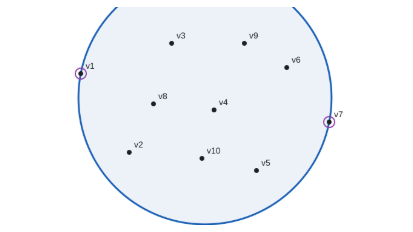
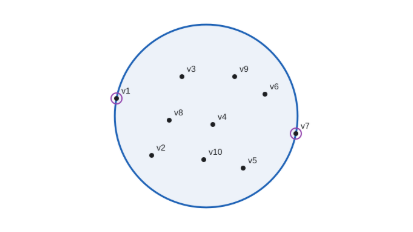
fix: fit the smallest enclosing disk presets into the canvas
- Random example, Two far points and Collinear rescaled about their disc
  centre and moved to (387, 180); Acute triangle moved 40 down. Orders,
  boundary counts, tests and updates unchanged; radii re-pinned
  (150.8, 153.0, 159.0)
- presets.test: every final disc has r <= 165 and lies in the 775x360
  canvas with a margin of 10
- spec section 3.4 updated with the new coordinates
- thumbnail regenerated (step 32 is still the last step)
- docs.spec: link href checks carry BASE_PATH, so they hold under a sub-path

Claude-Session: https://claude.ai/code/session_01GDn6v79cMSt4qkDVCWkMfK

diff --git a/src/geometry/algorithms/minidisc/presets.ts b/src/geometry/algorithms/minidisc/presets.ts
@@ -23,19 +23,19 @@ export const MINIDISC_PRESETS: {
 }[] = [
   {
     name: 'Random example',
-    points: pts([180, 250], [260, 120], [330, 300], [400, 190], [470, 90], [520, 260], [590, 170], [300, 200], [450, 300], [380, 110]),
+    points: pts([239, 209], [297, 115], [347, 245], [398, 166], [448, 94], [484, 216], [535, 151], [326, 173], [434, 245], [383, 108]),
     order: defaultOrder(10, 10),
-    expected: { boundary: 2, radius: 208.9, tests: 17, updates: 4 },
+    expected: { boundary: 2, radius: 150.8, tests: 17, updates: 4 },
   },
   {
     name: 'Two far points',
-    points: pts([150, 180], [620, 180], [300, 150], [450, 220], [380, 170], [500, 140]),
+    points: pts([234, 180], [540, 180], [332, 161], [429, 206], [384, 174], [462, 154]),
     order: [2, 3, 4, 5, 0, 1],
-    expected: { boundary: 2, radius: 235, tests: 21, updates: 6 },
+    expected: { boundary: 2, radius: 153, tests: 21, updates: 6 },
   },
   {
     name: 'Acute triangle',
-    points: pts([260, 290], [510, 280], [390, 80], [380, 200], [330, 230], [440, 220]),
+    points: pts([260, 250], [510, 240], [390, 40], [380, 160], [330, 190], [440, 180]),
     order: defaultOrder(6, 6),
     expected: { boundary: 3, radius: 140.8, tests: 18, updates: 11 },
   },
@@ -53,8 +53,8 @@ export const MINIDISC_PRESETS: {
   },
   {
     name: 'Collinear',
-    points: pts([150, 180], [250, 180], [400, 180], [520, 180], [640, 180]),
+    points: pts([228, 180], [293, 180], [390, 180], [468, 180], [546, 180]),
     order: [2, 1, 3, 0, 4],
-    expected: { boundary: 2, radius: 245, tests: 16, updates: 7 },
+    expected: { boundary: 2, radius: 159, tests: 16, updates: 7 },
   },
 ]

diff --git a/tests/e2e/docs.spec.ts b/tests/e2e/docs.spec.ts
@@ -1,4 +1,5 @@
 import { expect, test, type Page } from '@playwright/test';
+import { BASE_PATH } from './base';
 
 const items = [
   'Polygon', 'TextPoint', 'Points', 'clearScreen', 'clearLog', 'draw', 'createPolygon', 'createRandomPolygon',
@@ -45,7 +46,7 @@ test('sidebar navigation switches pages', async ({ page }) => {
 
 test('converted links point to documentation pages', async ({ page }) => {
   await page.goto('documentation/Points');
-  await expect(page.locator('article a[href="/documentation/createRandom"]').first()).toBeVisible();
+  await expect(page.locator(`article a[href="${BASE_PATH}/documentation/createRandom"]`).first()).toBeVisible();
 });
 
 test('unknown item is not found, case-sensitively', async ({ page }) => {
@@ -69,7 +70,7 @@ test('Try it link exists exactly where an example exists', async ({ page }) => {
   await page.goto('documentation/sort');
   await expect(page.getByRole('link', { name: 'Try it' })).toHaveCount(0);
   await page.goto('documentation/animate');
-  await expect(page.getByRole('link', { name: 'Try it' })).toHaveAttribute('href', '/playground?example=animate');
+  await expect(page.getByRole('link', { name: 'Try it' })).toHaveAttribute('href', `${BASE_PATH}/playground?example=animate`);
 });
 
 test('example link does not overwrite saved playground code', async ({ page }) => {

diff --git a/tests/e2e/smallestEnclosingDisk.spec.ts b/tests/e2e/smallestEnclosingDisk.spec.ts
@@ -85,8 +85,9 @@ test('dragging a point restarts the player', async ({ page }) => {
   await expect(page.getByText(/^Step 2 \/ /)).toBeVisible()
   await page.waitForFunction(() => window.__webcgalDebug?.scene.paper.project.activeLayer.children.length)
   const n = preset.points.length
+  const start = preset.points[0]
   const v1 = await pointPosition(page, 0, n)
-  expect(v1).toMatchObject({ x: 180, y: 250, width: 8 })
+  expect(v1).toMatchObject({ x: start.x, y: start.y, width: 8 })
   const from = await toPage(page, v1)
   await page.mouse.move(from.x, from.y)
   await page.mouse.down()
@@ -94,7 +95,7 @@ test('dragging a point restarts the player', async ({ page }) => {
   await page.mouse.up()
   await expect(page.getByText(/^Step 1 \/ /)).toBeVisible()
   await expect(page.getByRole('alert')).toHaveCount(0)
-  expect((await pointPosition(page, 0, n)).x).not.toBe(180)
+  expect((await pointPosition(page, 0, n)).x).not.toBe(start.x)
   // the order stays
   await expect(description(page)).toHaveText(`Order: ${preset.order.map(label).join(', ')}`)
 })

diff --git a/src/geometry/algorithms/minidisc/presets.test.ts b/src/geometry/algorithms/minidisc/presets.test.ts
@@ -29,6 +29,17 @@ describe('MINIDISC_PRESETS', () => {
     })
   }
 
+  it('every final disc fits the 775×360 canvas with a margin of 10', () => {
+    for (const p of MINIDISC_PRESETS) {
+      const { center: c, radius: r } = minidisc(p.points, p.order).disk!
+      expect(r, p.name).toBeLessThanOrEqual(165)
+      expect(c.x - r, p.name).toBeGreaterThanOrEqual(10)
+      expect(c.x + r, p.name).toBeLessThanOrEqual(775 - 10)
+      expect(c.y - r, p.name).toBeGreaterThanOrEqual(10)
+      expect(c.y + r, p.name).toBeLessThanOrEqual(360 - 10)
+    }
+  })
+
   it('preset shapes: boundary counts and circle radius', () => {
     expect(byName('Two far points').expected.boundary).toBe(2)
     expect(byName('Acute triangle').expected.boundary).toBe(3)

diff --git a/docs/superpowers/specs/2026-11-10-smallest-enclosing-disk-design.md b/docs/superpowers/specs/2026-11-10-smallest-enclosing-disk-design.md
@@ -113,12 +113,13 @@ Yarıçap bir ondalıkla; etiketler `v1…`. Çağrıdan sonraki ilk adım iç p
 ### 3.4 Adım üreteci ve presetler
 - `miniDiscSteps(points, order): Step<MiniDiscState>[]`; n ≤ 1 → satır 1 ve 7.
 - `MINIDISC_PRESETS: { name; points; order; expected: { boundary: number; radius: number; tests: number; updates: number } }[]` (koordinatlar spec'te sabit, `expected` uygulamada hesaplanıp sabitlenir):
-  1. "Random example": (180,250),(260,120),(330,300),(400,190),(470,90),(520,260),(590,170),(300,200),(450,300),(380,110); order `defaultOrder(10, 10)`.
-  2. "Two far points": (150,180),(620,180),(300,150),(450,220),(380,170),(500,140); order [2,3,4,5,0,1] (uç noktalar en sonda → her ikisi de dışarıda düşer).
-  3. "Acute triangle": (260,290),(510,280),(390,80),(380,200),(330,230),(440,220); order `defaultOrder(6, 6)`.
+  1. "Random example": (239,209),(297,115),(347,245),(398,166),(448,94),(484,216),(535,151),(326,173),(434,245),(383,108); order `defaultOrder(10, 10)`.
+  2. "Two far points": (234,180),(540,180),(332,161),(429,206),(384,174),(462,154); order [2,3,4,5,0,1] (uç noktalar en sonda → her ikisi de dışarıda düşer).
+  3. "Acute triangle": (260,250),(510,240),(390,40),(380,160),(330,190),(440,180); order `defaultOrder(6, 6)`.
   4. "Points on a circle": 8 nokta `(387 + 140cos(kπ/4), 180 + 140sin(kπ/4))`; order `defaultOrder(8, 8)`.
   5. "Bad order": 10 nokta `(387 + rₖcos(2.4k), 180 + rₖsin(2.4k))`, rₖ = 15 + 14k; order [0..9] (merkezden dışa → neredeyse her nokta dışarıda).
-  6. "Collinear": (150,180),(250,180),(400,180),(520,180),(640,180); order [2,1,3,0,4].
+  6. "Collinear": (228,180),(293,180),(390,180),(468,180),(546,180); order [2,1,3,0,4].
+- Her presetin son diski canvas'a sığar: r ≤ 165, merkez ± r 775×360 içinde, kenar payı ≥ 10 (Random example, Two far points ve Collinear 1–3. görevde bu koşulu sağlamıyordu; ölçeklenip (387, 180) merkezine taşındı, Acute triangle 40 birim aşağı kaydırıldı; sıralar ve sınır sayıları aynı).
 - Testler: `last step matches minidisc` (presetler + 30 rastgele); satırlar geçerli ve başlık değil; `testing` yalnızca 4/11/18'de; `newDisk` yalnızca 20'de; `returned` yalnızca 14/21'de; yığın derinliği çağrı adımında +1, dönüşte −1; anlık görüntüler bağımsız; preset sayıları; 25 rastgele nokta ≤ 600 adım (20 seed).
 
 ## 4. Oynatıcı modülü (`src/players/miniDiscPlayer.ts`)
